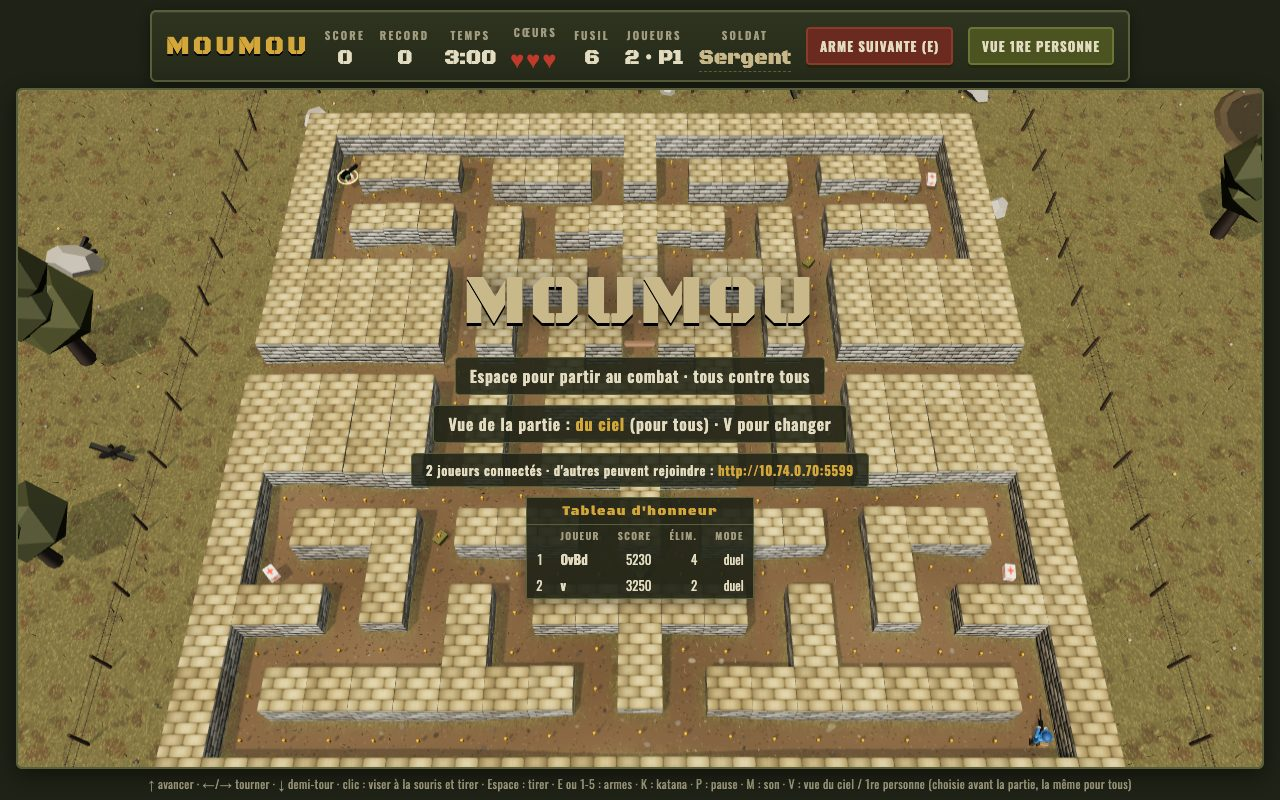
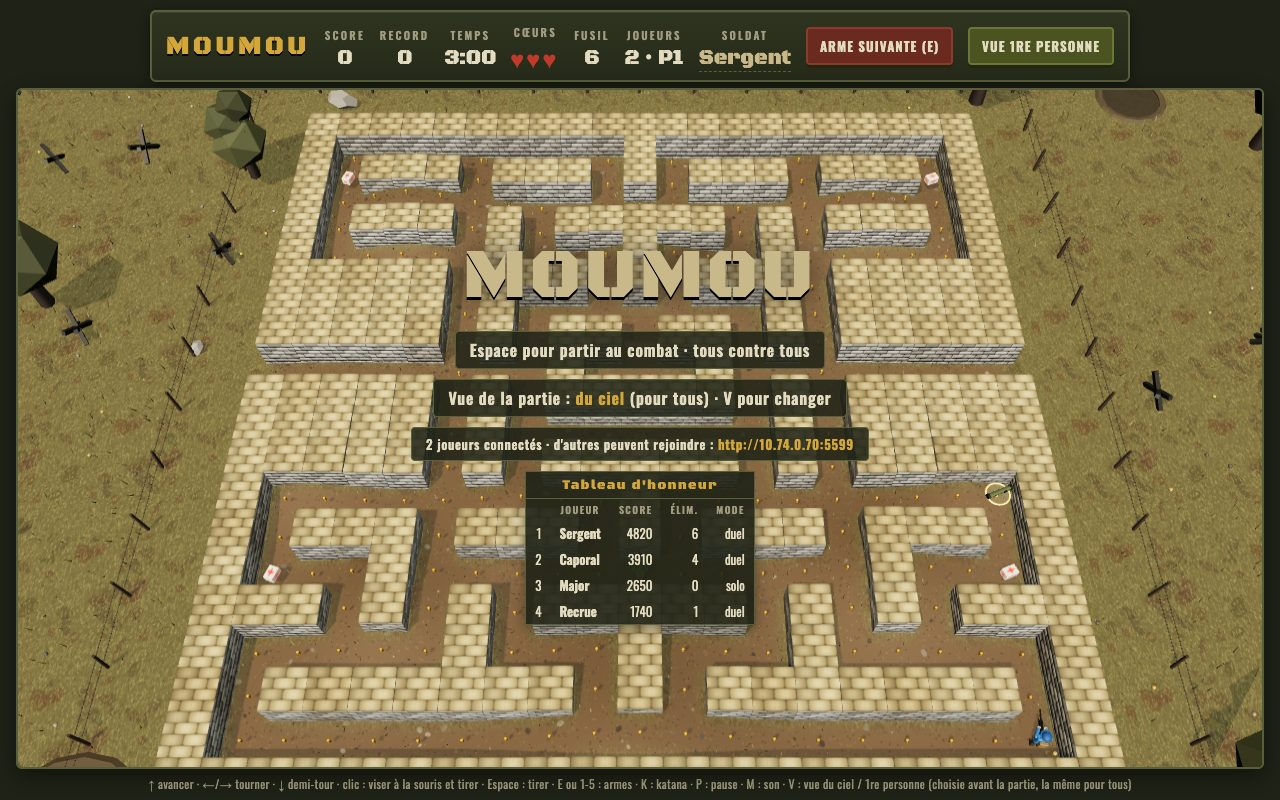
moumou update

diff --git a/server/index.js b/server/index.js
@@ -38,7 +38,7 @@ function livereload(req, res) {
 }
 
 const files = serveStatic(PUBLIC);
-const board = new Leaderboard(path.join(HERE, 'data', 'leaderboard.json'));
+const board = new Leaderboard(process.env.MOUMOU_DATA || path.join(HERE, 'data', 'leaderboard.json'));   // MOUMOU_DATA : autre fichier (tests, captures)
 const room = new Room({ ips, log, onResult: m => {
   if (board.add(m.entries, m.mode)) { log(`leaderboard : manche ${m.mode} enregistrée`); room.broadcast({ t:'board', top:board.top() }); }
 } });

diff --git a/README.md b/README.md
@@ -2,6 +2,22 @@
 
 Jeu de guerre en 3D (Three.js) dans un labyrinthe : en solo, ou jusqu'à 6 joueurs en affrontement sur le réseau local.
 
+## Captures d'écran (partie à deux)
+
+| Accueil : chacun choisit son pseudo | Écran titre à deux, avec le tableau d'honneur |
+|---|---|
+| ![Écran d'accueil](docs/screenshots/1-accueil.jpg) | ![Écran titre multijoueur](docs/screenshots/2-titre-multi.jpg) |
+
+**Manche en vue du ciel** : classement en direct en haut à gauche, chrono de 3 minutes. Le soldat vert (hôte) et le bleu (invité) sont en concurrence, et les monstres sortent de leur repaire au centre.
+
+![Manche à deux en vue du ciel](docs/screenshots/3-vue-ciel-multi.jpg)
+
+**Manche en vue 1re personne** (choisie avant la partie, la même pour tous). Sur la minimap, chacun ne voit que sa propre position.
+
+| Hôte (Sergent) | Invité (Caporal) |
+|---|---|
+| ![Vue 1re personne de l'hôte](docs/screenshots/4-fps-hote.jpg) | ![Vue 1re personne de l'invité](docs/screenshots/5-fps-invite.jpg) |
+
 ## Lancer
 
 ```sh
@@ -35,7 +51,7 @@ server/                 Node, sans dépendance
   index.js              HTTP (public/) + WebSocket /ws + rechargement auto /__livereload
   websocket.js          WebSocket minimal (RFC 6455)
   room.js               salle de 6 places : relaie l'état de l'hôte vers les invités et leurs commandes vers l'hôte
-  leaderboard.js        meilleurs scores, enregistrés dans server/data/
+  leaderboard.js        meilleurs scores, enregistrés dans server/data/ (ou le fichier de MOUMOU_DATA)
   static.js             fichiers statiques
 public/
   index.html, css/style.css
